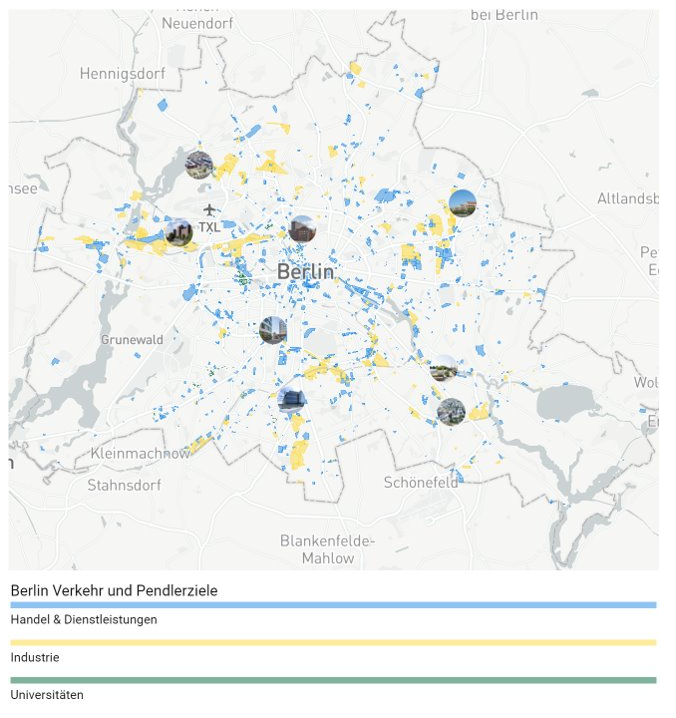
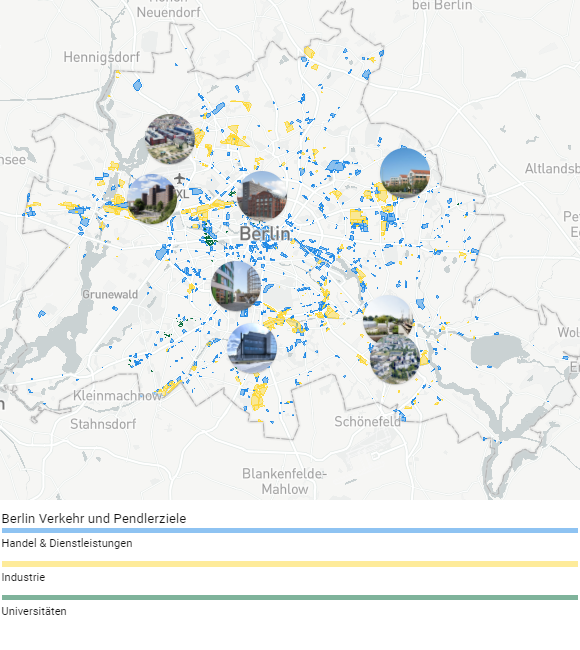
Update images

diff --git a/kapitel/4_ergebnispraesentation/ergebnispraesentation.tex b/kapitel/4_ergebnispraesentation/ergebnispraesentation.tex
@@ -5,7 +5,7 @@
 
 Die Analyseergebnisse werden in Form von interaktiven Karten und begleitenden Texten mittels einer Webapplikation zur Verfügung gestellt. Die Webapplikation ist unter der URL \url{https://berlin-mobility.web.app} für die Öffentlichkeit zugänglich. Die Grundlage der Webapplikation bildet das quelloffene Webapplikationsframework Angular\footnote{https://angular.io/}, welches in Version~10 zum Einsatz kommt.
 
-\img{app-01-landing-page}{app-01-landing-page}{width=14cm}{Startseite der Webapplikation}
+\img{app-landing-page}{app-landing-page}{width=14cm}{Startseite der Webapplikation}
 
 Die Webapplikation ist in zwei Bereiche unterteilt, welche im Folgenden beschrieben werden.
 
@@ -42,13 +42,13 @@ Auf den folgenden Unterseiten haben Nutzer*innen die Möglichkeit direkt mit Mob
 
 Auf dieser Seite werden alle Berliner Bus- und Bahnverbindungen des öffentlichen Nahverkehrs innerhalb von Berlin visualisiert. Darüber hinaus können Nutzer*innen auf einzelnen Ebenen die Erreichbarkeit der Stadt mittels aller öffentlichen Verkehrsmittel ein- und ausblenden.
 
-\img{dashboard-opnv}{dashboard-opnv}{width=14cm}{Interaktives Dashboard öffentlicher Personennahverkehr}
+\img{app-dashboard-opnv}{app-dashboard-opnv}{width=14cm}{Interaktives Dashboard öffentlicher Personennahverkehr}
 
 \subsubsection{Motorisierter Individualverkehr}
 
 Auf dieser Seite können Nutzer*innen die Engstellen des Straßenverkehrs betrachten. Auf vier Kacheln werden die durchschnittlich tatsächlich gefahrenen Geschwindigkeiten, die Verteilung der maximal zulässigen Höchstgeschwindigkeiten innerhalb der Stadt, Stoßzeiten auf einer Zeitachse sowie die Erreichbarkeit mittels der 15-Minuten-Isochrone visualisiert.
 
-\img{dashboard-miv}{dashboard-miv}{width=14cm}{Interaktives Dashboard motorisierter Individualverkehr}
+\img{app-dashboard-miv}{app-dashboard-miv}{width=14cm}{Interaktives Dashboard motorisierter Individualverkehr}
 \paragraph{Zukünftige Erweiterungen}
 
 Um den Nutzer*innen der Webapplikation zukünftig einen noch breiteren sowie einfacheren Zugang zu Mobilitätsdaten zu ermögichen, werden weitere Dashboards entwickelt. In der Planung befindet sich beispielsweise ein Dashboard, dass sich mit dem geplante Tram-Netz beschäftigt, und ein Dashboard, dass auf den in Kapitel~\ref{mobwob_index} beschriebenen Mobilitätsindex eingeht.

diff --git a/kapitel/5_ergebnisreflexion/ergebnisreflexion.tex b/kapitel/5_ergebnisreflexion/ergebnisreflexion.tex
@@ -51,7 +51,7 @@ Die Anreicherung der Analyse - ausgehend von den in den Kapiteln 5.2.1 und 5.2.2
 Wie in Kapitel \ref{ergebnispraesentation} beschrieben, verfügt der Prototyp bereits heute über einen interaktiven Modus. Mithilfe des interaktiven Mobilitätskompasses, bzw. Dashboards lassen sich individuelle Analysen der Verkehrsinfrastruktur durchführen. In Kapitel \ref{problems} wird dargelegt, dass die fehlende Einbindung der Bürger*innen zu Kritik an der Umsetzung des Mobilitätsgesetzes führt. Durch den gezielten Ausbau des interaktiven Mobilitätskompasses könnte ein Werkzeug für die die Bürger*innenkommunikation geschaffen werden, welches von Bürger*innen genutzt werden könnte um sich über den aktuellen Stand der Verkehrsinfrastrukutr zu erkundigen. Auf diese Weise könnten Bürger*innen die Notwendigkeit einzelner Infrastrukturmaßnahmen gezielt nachvollziehen. Es könnte auch ein Votingsystem zur Priorisierung von Infrastrukturmaßnahmen eingeführt werden, um das Gefühl der Teilhabe zu steigern.
 
 
-\img{dashboard001}{dashboard001}{width=14cm}{Individuelles Dashboard (eigene Darstellung)}
+\img{app-dashboard}{app-dashboard}{width=14cm}{Individuelles Dashboard (eigene Darstellung)}
 
 \subsubsection{Entwicklung eines Planungstools}
 Der interaktive Mobilitätskompass dient zudem als Ausgangspunkt für die Entwicklung eines umfangreichen Planungstools für Städteplaner und Entscheider*innen in der Berliner Senatsverwaltung für Umwelt, Verkehr und Klimaschutz. Zusätzlich zu der deskriptiven Analyse der Ist-Situation könnten beispielsweise Streckenverläufe, die sich noch in der Planung befinden, in die Graphen-Struktur eingepflegt werden. Auf diese Weise könnte simuliert werden, wie sich die Realisierung eines bestimmten Infrastrukturprojekts (bspw. die Erweiterung einer S-Bahnstrecke) auf die Anbindungsqualität im betroffenen Stadtgebiet auswirken würde. Dadurch könnten die Potenziale von Infrastrukturvorhaben unkompliziert und visuell evaluiert werden.
